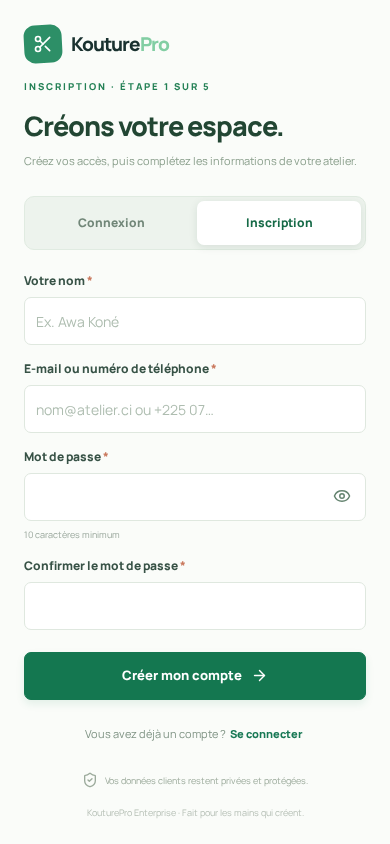
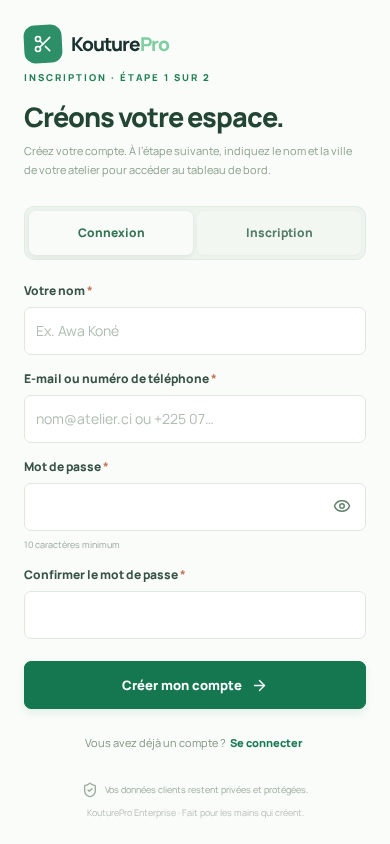
Simplify signup to one atelier step before dashboard

diff --git a/src/pages/Auth.jsx b/src/pages/Auth.jsx
@@ -1,5 +1,5 @@
 import React,{useEffect,useState} from 'react';
-import {Scissors,ArrowRight,Check,Sparkles,ShoppingBag,UsersRound,Building2,ShieldCheck,Camera,Eye,EyeOff} from 'lucide-react';
+import {Scissors,ArrowRight,Check,Sparkles,ShieldCheck,Eye,EyeOff} from 'lucide-react';
 import {useApp} from '../App.jsx';
 import {Button,Input} from '../components.jsx';
 
@@ -8,15 +8,20 @@ export default function Auth({onboarding,onAuthenticated}){
  const [mode,setMode]=useState('login');
  const [credentials,setCredentials]=useState({name:'',identifier:'',password:'',confirmation:''});
  const [showPassword,setShowPassword]=useState(false),[error,setError]=useState(''),[busy,setBusy]=useState(false);
- const [step,setStep]=useState(1),[logoFile,setLogoFile]=useState(null),[logoPreview,setLogoPreview]=useState('');
- const [form,setForm]=useState({name:'',owner_name:'',city:'Abidjan',address:'',whatsapp_phone:'',specialties:[],plan:'starter'});
- useEffect(()=>()=>{if(logoPreview)URL.revokeObjectURL(logoPreview);},[logoPreview]);
+ const [form,setForm]=useState({name:'',city:'Abidjan',whatsapp_phone:''});
  useEffect(()=>{
   if(!onboarding)return;
+  let active=true;
   request('/api/auth/me').then(r=>{
-   if(!r.user.org_id)setForm(f=>({...f,owner_name:r.user.name,whatsapp_phone:r.user.phone||''}));
-   else navigate('/app');
-  }).catch(()=>navigate('/auth'));
+   if(!active)return;
+   if(r.user.org_id){navigate('/app',true);return;}
+   setForm(f=>({...f,whatsapp_phone:f.whatsapp_phone||r.user.phone||''}));
+  }).catch(err=>{
+   if(!active)return;
+   if(err.status===401)navigate('/auth',true);
+   else setError('Impossible de vérifier votre session. Vérifiez la connexion et réessayez.');
+  });
+  return()=>{active=false;};
  },[onboarding,request,navigate]);
  const change=e=>{setCredentials({...credentials,[e.target.name]:e.target.value});setError('');};
  const switchMode=next=>{setMode(next);setCredentials(c=>({...c,password:'',confirmation:''}));setError('');setShowPassword(false);};
@@ -29,32 +34,39 @@ export default function Auth({onboarding,onAuthenticated}){
    if(localStorage.getItem('kp-logout-pending')==='yes'){
     await request('/api/auth/logout',{method:'POST'});localStorage.removeItem('kp-logout-pending');
    }
-   const result=await request(mode==='signup'?'/api/auth/signup':'/api/auth/login',{
-    method:'POST',body:{identifier:credentials.identifier,password:credentials.password,...(mode==='signup'?{name:credentials.name}:{})}
-   });
-   await onAuthenticated(result,mode);
+   let result,authMode=mode;
+   try{
+    result=await request(mode==='signup'?'/api/auth/signup':'/api/auth/login',{
+     method:'POST',body:{identifier:credentials.identifier,password:credentials.password,...(mode==='signup'?{name:credentials.name}:{})}
+    });
+   }catch(err){
+    if(mode!=='signup'||err.status!==409)throw err;
+    // Reprendre un compte déjà créé si la navigation vers l'étape suivante a échoué.
+    try{result=await request('/api/auth/login',{method:'POST',body:{identifier:credentials.identifier,password:credentials.password}});authMode='login';}
+    catch{throw new Error('Ce compte existe déjà. Ouvrez « Connexion » avec son mot de passe pour continuer.');}
+   }
+   if(result.needs_onboarding&&result.user?.phone)setForm(f=>({...f,whatsapp_phone:result.user.phone}));
+   await onAuthenticated(result,authMode);
   }catch(e){setError(e.network?'Connexion Internet nécessaire pour accéder à votre compte.':e.message);}
   finally{setBusy(false);}
  };
  const finish=async e=>{
-  e.preventDefault();
-  if(step<4){
-   if(step===1&&!form.name.trim())return notify('Donnez un nom à votre atelier.','error');
-   if(step===2&&!form.city.trim())return notify('Indiquez votre ville.','error');
-   setStep(step+1);return;
-  }
+  e.preventDefault();setError('');
+  if(!form.name.trim()||!form.city.trim()){setError('Indiquez le nom de votre atelier et sa ville.');return;}
   setBusy(true);
   try{
-   await request('/api/onboarding',{method:'POST',body:form});
-   if(logoFile){try{
-    const fd=new FormData();fd.append('image',logoFile);
-    const uploaded=await request('/api/uploads/image',{method:'POST',body:fd});
-    await request('/api/organization',{method:'PATCH',body:{logo_url:uploaded.url}});
-   }catch{notify('Atelier créé. Vous pourrez ajouter votre logo plus tard dans Ma vitrine.','error');}}
-   await refresh();navigate('/app');notify('Bienvenue dans votre atelier KouturePro !');
-  }catch(err){notify(err.message,'error');}finally{setBusy(false);}
+   try{await request('/api/onboarding',{method:'POST',body:form});}
+   catch(err){
+    if(err.status!==409)throw err;
+    // Si l'atelier a été créé mais la page n'a pas changé, reprendre sans doublon.
+    const me=await request('/api/auth/me');
+    if(!me.user.org_id)throw err;
+   }
+   try{await refresh();}catch{notify('Atelier créé. Chargement de vos données en cours...','error');}
+   navigate('/app',true);notify('Bienvenue dans votre atelier KouturePro !');
+  }catch(err){setError(err.network?'Connexion Internet nécessaire pour créer votre atelier.':err.message);}
+  finally{setBusy(false);}
  };
- const specs=['Tenues de cérémonie','Robes sur mesure','Boubous & ensembles','Mariages','Tenues traditionnelles','Retouches','Mode homme','Mode enfant'];
  return <div className="auth-layout">
   <div className="auth-visual"><img src="/assets/atelier-hero.jpg" alt="Atelier de couture en Afrique de l’Ouest"/><div className="auth-visual-shade"/>
    <div className="auth-brand"><span><Scissors size={22}/></span><strong>Kouture<span>Pro</span></strong><small>ENTERPRISE</small></div>
@@ -65,9 +77,9 @@ export default function Auth({onboarding,onAuthenticated}){
   <div className="auth-main"><div className="auth-mobile-brand"><span><Scissors size={20}/></span><strong>Kouture<span>Pro</span></strong></div>
    <div className="auth-form-shell">
     {!onboarding?<>
-     <div className="auth-overline">{mode==='login'?'VOTRE ESPACE ATELIER':'INSCRIPTION · ÉTAPE 1 SUR 5'}</div>
+     <div className="auth-overline">{mode==='login'?'VOTRE ESPACE ATELIER':'INSCRIPTION · ÉTAPE 1 SUR 2'}</div>
      <h2>{mode==='login'?'Bon retour à l’atelier.':'Créons votre espace.'}</h2>
-     <p className="auth-subtitle">{mode==='login'?'Entrez vos identifiants pour ouvrir directement votre tableau de bord.':'Créez vos accès, puis complétez les informations de votre atelier.'}</p>
+     <p className="auth-subtitle">{mode==='login'?'Entrez vos identifiants pour ouvrir directement votre tableau de bord.':'Créez votre compte. À l’étape suivante, indiquez le nom et la ville de votre atelier pour accéder au tableau de bord.'}</p>
      <div className="auth-tabs" role="tablist" aria-label="Accès à l’atelier">
       <button type="button" role="tab" aria-selected={mode==='login'} className={mode==='login'?'active':''} onClick={()=>switchMode('login')}>Connexion</button>
       <button type="button" role="tab" aria-selected={mode==='signup'} className={mode==='signup'?'active':''} onClick={()=>switchMode('signup')}>Inscription</button>
@@ -84,17 +96,16 @@ export default function Auth({onboarding,onAuthenticated}){
      <div className="auth-switch-line">{mode==='login'?<>Vous êtes nouveau ? <button type="button" onClick={()=>switchMode('signup')}>Créer un compte</button></>:<>Vous avez déjà un compte ? <button type="button" onClick={()=>switchMode('login')}>Se connecter</button></>}</div>
      <div className="auth-footnote"><ShieldCheck size={16}/> Vos données clients restent privées et protégées.</div>
     </>:<>
-     <div className="onboarding-top"><div className="auth-overline">INSCRIPTION · VOTRE ATELIER</div><span>Étape {step+1} sur 5</span></div>
-     <div className="onboarding-progress">{[1,2,3,4,5].map(i=><span key={i} className={i<=step+1?'active':''}/>)}</div>
-     <h2>{['Comment s’appelle votre atelier ?','Où vous trouve-t-on ?','Que créez-vous ?','Un plan pour commencer.'][step-1]}</h2>
-     <p className="auth-subtitle">{['Le début d’une belle histoire.','Aidez les clients près de chez vous à vous découvrir.','Choisissez ce qui vous ressemble le plus.','Vous pourrez changer de formule plus tard. Aucun paiement maintenant.'][step-1]}</p>
+     <div className="onboarding-top"><div className="auth-overline">INSCRIPTION · VOTRE ATELIER</div><span>Étape 2 sur 2</span></div>
+     <div className="onboarding-progress"><span className="active"/><span className="active"/></div>
+     <h2>Préparons votre atelier.</h2>
+     <p className="auth-subtitle">Deux informations suffisent pour commencer. Vous ajouterez votre logo, vos spécialités et WhatsApp plus tard dans la vitrine.</p>
      <form onSubmit={finish} className="auth-form onboarding-form">
-      {step===1&&<><Input label="Nom de votre atelier" value={form.name} onChange={e=>setForm({...form,name:e.target.value})} placeholder="Ex. Atelier Koné" required autoFocus/><Input label="Votre nom" value={form.owner_name} onChange={e=>setForm({...form,owner_name:e.target.value})} placeholder="Ex. Awa Koné"/>
-       <label className="onboarding-logo-picker"><span>{logoFile?<img src={logoPreview} alt="Aperçu du logo"/>:<Camera size={21}/>}</span><span><strong>{logoFile?'Logo choisi':'Ajouter un logo'}</strong><small>Facultatif · vous pourrez le changer plus tard</small></span><input type="file" accept="image/jpeg,image/png,image/webp" onChange={e=>{const file=e.target.files?.[0]||null;setLogoFile(file);setLogoPreview(file?URL.createObjectURL(file):'');}}/></label></>}
-      {step===2&&<><Input label="Ville" value={form.city} onChange={e=>setForm({...form,city:e.target.value})} required/><Input label="Adresse / quartier" value={form.address} onChange={e=>setForm({...form,address:e.target.value})} placeholder="Ex. Cocody Deux Plateaux"/><Input label="WhatsApp professionnel" type="tel" value={form.whatsapp_phone} onChange={e=>setForm({...form,whatsapp_phone:e.target.value})} required placeholder="+225 ..."/></>}
-      {step===3&&<div className="specialty-choices">{specs.map(s=><button key={s} type="button" className={form.specialties.includes(s)?'selected':''} onClick={()=>setForm({...form,specialties:form.specialties.includes(s)?form.specialties.filter(x=>x!==s):[...form.specialties,s]})}>{form.specialties.includes(s)&&<Check size={15}/>} {s}</button>)}</div>}
-      {step===4&&<div className="plan-choices">{[['starter','Starter','Pour démarrer seul',ShoppingBag],['pro','Pro','Pour un atelier avec équipe',UsersRound],['business','Business','Pour plusieurs boutiques',Building2]].map(([id,label,desc,Icon])=><button key={id} type="button" className={form.plan===id?'selected':''} onClick={()=>setForm({...form,plan:id})}><span><Icon size={21}/></span><span><strong>{label}</strong><small>{desc}</small></span><i>{form.plan===id&&<Check size={16}/>}</i></button>)}</div>}
-      <div className="onboarding-actions">{step>1&&<Button variant="soft" type="button" onClick={()=>setStep(step-1)}>Retour</Button>}<Button type="submit" loading={busy} className="auth-submit">{step===4?'Ouvrir mon tableau de bord':'Continuer'} <ArrowRight size={17}/></Button></div>
+      <Input label="Nom de votre atelier" value={form.name} onChange={e=>{setForm({...form,name:e.target.value});setError('');}} placeholder="Ex. Atelier Koné" required autoFocus/>
+      <Input label="Ville" value={form.city} onChange={e=>{setForm({...form,city:e.target.value});setError('');}} placeholder="Ex. Abidjan" required/>
+      <Input label="WhatsApp professionnel (facultatif)" type="tel" value={form.whatsapp_phone} onChange={e=>{setForm({...form,whatsapp_phone:e.target.value});setError('');}} placeholder="+225 ..." hint="Vous pourrez l’ajouter ou le modifier dans Vitrine (gestion)."/>
+      {error&&<div className="auth-error" role="alert">{error}</div>}
+      <div className="onboarding-actions"><Button type="submit" loading={busy} className="auth-submit">Ouvrir mon tableau de bord <ArrowRight size={17}/></Button></div>
      </form>
     </>}
    </div><div className="auth-main-bottom">KouturePro Enterprise · Fait pour les mains qui créent.</div>

diff --git a/src/pages/PublicSite.jsx b/src/pages/PublicSite.jsx
@@ -8,7 +8,7 @@ export default function PublicSite({slug}){const {data:appData,request,notify,na
  if(loading&&!site)return <Loading/>;
  if(!site)return <div className="public-not-found"><span><Scissors size={30}/></span><h1>Atelier introuvable</h1><p>Cette vitrine n’est pas disponible pour le moment.</p><button onClick={()=>navigate('/app')}>Retour à KouturePro <ArrowRight size={17}/></button></div>;
  const o=site.organization,hasPhotos=site.showcase.length>0,cover=o.cover_url||'/assets/atelier-hero.jpg';const goWhatsapp=waLink(o.whatsapp_phone,`Bonjour ${o.name}, je voudrais en savoir plus sur vos créations.`);
- return <div className="public-site"><div className="public-topline"><span><MapPin size={13}/>{o.city}, Côte d’Ivoire</span><span>Votre style, notre savoir-faire.</span><a href={goWhatsapp} target="_blank" rel="noreferrer"><MessageCircle size={13}/> Discutons sur WhatsApp</a></div>
+ return <div className="public-site"><div className="public-topline"><span><MapPin size={13}/>{o.city}, Côte d’Ivoire</span><span>Votre style, notre savoir-faire.</span>{o.whatsapp_phone&&<a href={goWhatsapp} target="_blank" rel="noreferrer"><MessageCircle size={13}/> Discutons sur WhatsApp</a>}</div>
  <header className="public-header"><a className="public-logo" href="#accueil"><span>{o.logo_url?<img src={o.logo_url} alt={"Logo "+o.name}/>:<Scissors size={21}/>}</span><span><strong>{o.name}</strong><small>MAISON DE COUTURE</small></span></a><nav className={menu?'open':''}><a href="#savoir-faire" onClick={()=>setMenu(false)}>Notre atelier</a><a href="#realisations" onClick={()=>setMenu(false)}>Réalisations</a><a href="#avis" onClick={()=>setMenu(false)}>Vos mots</a><a href="#contact" onClick={()=>setMenu(false)}>Contact</a></nav><div className="public-header-actions"><button onClick={()=>setAppointment(true)} className="public-header-cta">Prendre rendez-vous <ArrowUpRight size={16}/></button><button className="public-menu-button" aria-label={menu?'Fermer le menu':'Ouvrir le menu'} onClick={()=>setMenu(!menu)}>{menu?<X size={22}/>:<Menu size={22}/>}</button></div></header>
  <section className="public-hero" id="accueil"><img src={cover} alt={'L’atelier de couture '+o.name} fetchPriority="high"/><div className="public-hero-shade"/><div className="public-hero-content"><span className="public-eyebrow"><i/> COUTURE SUR MESURE · {o.city.toUpperCase()}</span><h1>L’élégance<br/>se dessine <em>sur mesure.</em></h1><p>{o.description||'Un atelier où chaque création raconte votre histoire.'}</p><div className="public-hero-actions"><button onClick={()=>setAppointment(true)} className="public-btn public-btn-light">Prendre rendez-vous <ArrowUpRight size={17}/></button><a href="#realisations" className="public-btn public-btn-outline">Voir nos créations <ArrowRight size={17}/></a></div></div><div className="public-hero-side">CRÉATIONS UNIQUES <span>✦</span> FAIT AVEC AMOUR</div><div className="hero-bottom-tag"><span>01 — L’ART DE CRÉER POUR VOUS</span><span>Défiler pour découvrir <span>↓</span></span></div></section>
  <div className="public-value-strip"><div><span>01</span><strong>À votre mesure</strong><small>Chaque détail compte</small></div><div><span>02</span><strong>Fait avec soin</strong><small>Par des mains passionnées</small></div><div><span>03</span><strong>Comme vous</strong><small>Une pièce, une histoire</small></div></div>
@@ -16,8 +16,8 @@ export default function PublicSite({slug}){const {data:appData,request,notify,na
  <section className="public-specialties"><div><span className="public-section-kicker">CE QUE NOUS AIMONS CRÉER</span><h2>La beauté de <em>chaque occasion.</em></h2></div><div className="public-specialty-tags">{o.specialties.length?o.specialties.map((s,i)=><span key={s}><small>0{i+1}</small> {s} <ArrowUpRight size={16}/></span>):['Créations sur mesure','Tenues uniques','Votre histoire'].map((s,i)=><span key={s}><small>0{i+1}</small> {s} <ArrowUpRight size={16}/></span>)}</div></section>
  <section className="public-gallery" id="realisations"><div className="public-section-heading"><div><span className="public-section-kicker">LE PORTFOLIO</span><h2>Nos créations, <em>vos histoires.</em></h2><p>Quelques pièces imaginées avec vous et confectionnées avec soin.</p></div><span className="gallery-asterisk">✳</span></div><div className="public-gallery-grid">{(hasPhotos?site.showcase:[{id:'sample1',title:'Le savoir-faire',image_url:'/assets/gallery-studio.jpg',description:'Chaque détail compte.'}]).map((item,i)=><div className={'public-gallery-card gallery-'+i%3} key={item.id}><div className="public-gallery-photo"><img src={item.image_url} loading="lazy" alt={item.title}/><span className="gallery-index">0{i+1}</span></div><div className="public-gallery-caption"><div><strong>{item.title}</strong><span>{item.description}</span></div><span><ArrowUpRight size={18}/></span></div></div>)}</div><div className="gallery-bottom-line"><span>Des pièces qui n’appartiennent qu’à vous.</span><button onClick={()=>setAppointment(true)}>Parlons de votre projet <ArrowRight size={16}/></button></div></section>
  <section className="public-testimonials" id="avis"><div className="testimonials-top"><span className="public-section-kicker">VOS MOTS, NOTRE PLUS BELLE RÉCOMPENSE</span><span>★★★★★</span></div><h2>Des créations aimées.<br/><em>Des histoires partagées.</em></h2><div className="testimonials-grid">{site.reviews.slice(0,3).map((r,i)=><div className="testimonial-card" key={r.id}><span className="quote-mark">“</span><p>{r.text}</p><div><span>{'★'.repeat(r.rating)}</span><strong>{r.name}</strong></div></div>)}{!site.reviews.length&&<p className="no-reviews">Les histoires de nos clients prendront bientôt place ici.</p>}</div></section>
- <section className="public-contact" id="contact"><div className="contact-copy"><span className="public-section-kicker">VOTRE PROCHAINE CRÉATION COMMENCE ICI</span><h2>Et si on imaginait<br/><em>la vôtre ensemble ?</em></h2><p>Une envie, une idée, une occasion spéciale ? Poussez la porte de notre atelier. Nous serons heureux de vous rencontrer.</p><div className="contact-actions"><button onClick={()=>setAppointment(true)} className="public-btn public-btn-dark">Prendre rendez-vous <ArrowUpRight size={17}/></button><a href={goWhatsapp} target="_blank" rel="noreferrer" className="public-btn public-btn-white"><MessageCircle size={18}/> Écrire sur WhatsApp</a></div></div><div className="contact-location"><span className="location-decoration"><MapPin size={32}/></span><div><span>VENEZ NOUS RENDRE VISITE</span><h3>{o.name}</h3><p>{[o.address,o.neighborhood,o.city].filter(Boolean).join(', ')}</p><a href={'https://www.google.com/maps/search/?api=1&query='+encodeURIComponent([o.address,o.city].filter(Boolean).join(' '))} target="_blank" rel="noreferrer">Itinéraire <ArrowUpRight size={15}/></a></div><div className="location-pattern">✳</div></div></section>
- <footer className="public-footer"><div className="public-footer-top"><div><a href="#accueil" className="public-logo footer-logo"><span>{o.logo_url?<img src={o.logo_url} alt={"Logo "+o.name}/>:<Scissors size={21}/>}</span><span><strong>{o.name}</strong><small>MAISON DE COUTURE</small></span></a><p>Le sur-mesure, pour les moments qui comptent.</p></div><div><strong>DÉCOUVRIR</strong><a href="#savoir-faire">Notre atelier</a><a href="#realisations">Réalisations</a><a href="#avis">Avis clients</a></div><div><strong>NOUS TROUVER</strong><span>{o.city}, Côte d’Ivoire</span><a href={goWhatsapp} target="_blank" rel="noreferrer">WhatsApp <ArrowUpRight size={13}/></a><button onClick={()=>setAppointment(true)}>Prendre rendez-vous</button></div></div><div className="public-footer-bottom"><span>© {new Date().getFullYear()} {o.name}. Créé avec passion.</span><span>Propulsé par <a href="/app">KouturePro</a> <Scissors size={13}/></span></div></footer>
+ <section className="public-contact" id="contact"><div className="contact-copy"><span className="public-section-kicker">VOTRE PROCHAINE CRÉATION COMMENCE ICI</span><h2>Et si on imaginait<br/><em>la vôtre ensemble ?</em></h2><p>Une envie, une idée, une occasion spéciale ? Poussez la porte de notre atelier. Nous serons heureux de vous rencontrer.</p><div className="contact-actions"><button onClick={()=>setAppointment(true)} className="public-btn public-btn-dark">Prendre rendez-vous <ArrowUpRight size={17}/></button>{o.whatsapp_phone&&<a href={goWhatsapp} target="_blank" rel="noreferrer" className="public-btn public-btn-white"><MessageCircle size={18}/> Écrire sur WhatsApp</a>}</div></div><div className="contact-location"><span className="location-decoration"><MapPin size={32}/></span><div><span>VENEZ NOUS RENDRE VISITE</span><h3>{o.name}</h3><p>{[o.address,o.neighborhood,o.city].filter(Boolean).join(', ')}</p><a href={'https://www.google.com/maps/search/?api=1&query='+encodeURIComponent([o.address,o.city].filter(Boolean).join(' '))} target="_blank" rel="noreferrer">Itinéraire <ArrowUpRight size={15}/></a></div><div className="location-pattern">✳</div></div></section>
+ <footer className="public-footer"><div className="public-footer-top"><div><a href="#accueil" className="public-logo footer-logo"><span>{o.logo_url?<img src={o.logo_url} alt={"Logo "+o.name}/>:<Scissors size={21}/>}</span><span><strong>{o.name}</strong><small>MAISON DE COUTURE</small></span></a><p>Le sur-mesure, pour les moments qui comptent.</p></div><div><strong>DÉCOUVRIR</strong><a href="#savoir-faire">Notre atelier</a><a href="#realisations">Réalisations</a><a href="#avis">Avis clients</a></div><div><strong>NOUS TROUVER</strong><span>{o.city}, Côte d’Ivoire</span>{o.whatsapp_phone&&<a href={goWhatsapp} target="_blank" rel="noreferrer">WhatsApp <ArrowUpRight size={13}/></a>}<button onClick={()=>setAppointment(true)}>Prendre rendez-vous</button></div></div><div className="public-footer-bottom"><span>© {new Date().getFullYear()} {o.name}. Créé avec passion.</span><span>Propulsé par <a href="/app">KouturePro</a> <Scissors size={13}/></span></div></footer>
  {appointment&&<AppointmentForm slug={slug} org={o} onClose={()=>setAppointment(false)}/>}
  </div>;
 }

diff --git a/src/pages/Settings.jsx b/src/pages/Settings.jsx
@@ -6,7 +6,7 @@ import {orgPublicPath} from '../utils.js';
 export default function Settings(){const {data,online,forcedOffline,simulateOffline,pending,syncing,syncQueue,mutate,notify,navigate,logout}=useApp(),o=data.organization,[saving,setSaving]=useState(false),[passwordOpen,setPasswordOpen]=useState(false);
  const toggle=async(key)=>{setSaving(true);try{const next=!o[key];await mutate('PATCH','/api/organization',{[key]:next},old=>({...old,organization:{...old.organization,[key]:next?1:0}}));notify(next?'Rappels activés.':'Rappels désactivés.');}catch(e){notify(e.message,'error')}finally{setSaving(false)}};
  return <><PageHeader eyebrow="VOTRE ESPACE" title="Paramètres" subtitle="Toutes les préférences de votre atelier, réunies ici."/>
- <div className="settings-layout"><div className="settings-primary"><Card className="settings-card"><PanelHead title="Informations de l’atelier" subtitle="La base de votre espace KouturePro" icon={Store}/><div className="setting-org"><span className="setting-org-logo">{o.name[0]}</span><div><strong>{o.name}</strong><small>{o.city} · {o.slug}</small></div><Badge tone="mint">Plan {o.plan==='business'?'Business':o.plan==='pro'?'Pro':'Starter'}</Badge></div><div className="settings-row"><span><Store size={19}/></span><div><strong>Ma vitrine publique</strong><small>Vos créations sont accessibles en ligne.</small></div><a href={orgPublicPath(data)} target="_blank" rel="noreferrer"><ExternalLink size={17}/></a></div><div className="settings-row"><span><Phone size={19}/></span><div><strong>WhatsApp professionnel</strong><small>{o.whatsapp_phone||'À renseigner dans votre vitrine'}</small></div><button onClick={()=>navigate('/app/showcase')}>Modifier <ChevronRight size={16}/></button></div><div className="settings-row"><span><Crown size={19}/></span><div><strong>Votre abonnement</strong><small>{o.plan==='business'?'Business':o.plan==='pro'?'Pro':'Starter'} · Devise : FCFA (XOF)</small></div><Badge tone={o.is_demo?'gray':'mint'}>{o.is_demo?'Démo':'Plan choisi'}</Badge></div></Card>
+ <div className="settings-layout"><div className="settings-primary"><Card className="settings-card"><PanelHead title="Informations de l’atelier" subtitle="La base de votre espace KouturePro" icon={Store}/><div className="setting-org"><span className="setting-org-logo">{o.name[0]}</span><div><strong>{o.name}</strong><small>{o.city} · {o.slug}</small></div><Badge tone="mint">Plan {o.plan==='business'?'Business':o.plan==='pro'?'Pro':'Starter'}</Badge></div><div className="settings-row"><span><Store size={19}/></span><div><strong>Ma vitrine publique</strong><small>Vos créations sont accessibles en ligne.</small></div><a href={orgPublicPath(data)} target="_blank" rel="noreferrer"><ExternalLink size={17}/></a></div><div className="settings-row"><span><Phone size={19}/></span><div><strong>WhatsApp professionnel</strong><small>{o.whatsapp_phone||'À renseigner dans votre vitrine'}</small></div><button onClick={()=>navigate('/app/showcase')}>Modifier <ChevronRight size={16}/></button></div><div className="settings-row"><span><Crown size={19}/></span><div><strong>Votre abonnement</strong><small>{o.plan==='business'?'Business':o.plan==='pro'?'Pro':'Starter'} · Devise : FCFA (XOF)</small></div><Badge tone={o.is_demo?'gray':'mint'}>{o.is_demo?'Démo':o.plan==='starter'?'Plan de départ':'Plan actif'}</Badge></div></Card>
  <Card className="settings-card"><PanelHead title="Rappels automatiques" subtitle="Prévenez vos clients avant les essayages et retraits" icon={Bell}/><div className="settings-row"><span className="setting-channel green"><MessageCircle size={19}/></span><div><strong>Rappels WhatsApp</strong><small>{data.integration.whatsapp?'Modèle approuvé connecté':'Nécessite WhatsApp Business API et un modèle approuvé'}</small></div><button className={'toggle '+(o.reminders_whatsapp?'on':'')} role="switch" aria-checked={!!o.reminders_whatsapp} aria-label="Rappels WhatsApp" disabled={data.user.role!=='owner'||!data.integration.whatsapp||saving} onClick={()=>toggle('reminders_whatsapp')}><i/></button></div><div className="settings-row"><span className="setting-channel blue"><Smartphone size={19}/></span><div><strong>Rappels SMS</strong><small>{data.integration.sms?'Twilio connecté':'Nécessite un compte Twilio actif'}</small></div><button className={'toggle '+(o.reminders_sms?'on':'')} role="switch" aria-checked={!!o.reminders_sms} aria-label="Rappels SMS" disabled={data.user.role!=='owner'||!data.integration.sms||saving} onClick={()=>toggle('reminders_sms')}><i/></button></div><div className="settings-help"><Info size={17}/> Les rappels sont envoyés la veille de la date d’essayage ou de livraison, uniquement avec votre accord et des accès configurés.</div></Card>
  <Card className="settings-card"><PanelHead title="Hors ligne & synchronisation" subtitle="Continuez à travailler même avec une connexion capricieuse" icon={CloudUpload}/><div className="sync-status-large"><span className={'sync-large-icon '+(!online?'offline':'')} >{online?<Wifi size={25}/>:<WifiOff size={25}/>}</span><div><strong>{!online?'Vous travaillez hors ligne':syncing?'Synchronisation en cours':pending?'Des modifications sont en attente':'Tout est synchronisé'}</strong><p>{!online?"Vos saisies sont sauvegardées sur cet appareil. Elles seront envoyées quand la connexion reviendra.":pending?`${pending} modification${pending>1?'s':''} encore à synchroniser.`:'Les dernières données de votre atelier sont disponibles sur cet appareil.'}</p></div><Badge tone={online?'green':'amber'}>{online?'Connecté':'Hors ligne'}</Badge></div><div className="settings-row"><span><WifiOff size={19}/></span><div><strong>Simuler le mode hors ligne</strong><small>Essayez l’application sans réseau, puis vérifiez la synchronisation.</small></div><button className={'toggle '+(forcedOffline?'on':'')} role="switch" aria-checked={forcedOffline} aria-label="Simuler hors ligne" onClick={()=>simulateOffline(!forcedOffline)}><i/></button></div><Button variant="soft" icon={RotateCcw} onClick={syncQueue} disabled={!online||syncing}>{syncing?'Synchronisation...':'Synchroniser maintenant'}{pending>0?` (${pending})`:''}</Button><div className="settings-help"><Info size={17}/> Vous pouvez saisir clients, mesures, commandes, paiements en espèces et dépenses hors ligne. Un paiement mobile ou l’envoi d’un message demande internet.</div></Card>
  <Card className="settings-card"><PanelHead title="Connexions externes" subtitle="Services à configurer sur le serveur de votre atelier" icon={Link2}/>{[['Paiement mobile','CinetPay · Wave, Orange Money, MTN Money',data.integration.mobile,CreditCard],['Messages WhatsApp','Meta WhatsApp Business API',data.integration.whatsapp,MessageCircle],['Messages SMS','Twilio SMS',data.integration.sms,Smartphone]].map(([title,subtitle,connected,Icon])=><div className="integration-row" key={title}><span><Icon size={19}/></span><div><strong>{title}</strong><small>{subtitle}</small></div><Badge tone={connected?'green':'gray'} dot>{connected?'Connecté':'À configurer'}</Badge></div>)}<div className="settings-help"><ShieldCheck size={17}/> Les identifiants restent côté serveur. Aucune transaction n’est simulée comme payée.</div></Card><Card className="settings-card"><PanelHead title="Sécurité du compte" subtitle="Vos identifiants restent privés" icon={LockKeyhole}/><div className="settings-row"><span><LockKeyhole size={19}/></span><div><strong>Mot de passe</strong><small>Modifiez-le régulièrement et ne le communiquez à personne.</small></div><button onClick={()=>setPasswordOpen(true)}>Modifier <ChevronRight size={16}/></button></div></Card></div>

diff --git a/src/App.jsx b/src/App.jsx
@@ -111,7 +111,17 @@ export default function App(){
  const simulateOffline=(value)=>{localStorage.setItem('kp-offline-sim',value?'yes':'no');setForcedOffline(value);notify(value?'Mode hors ligne de test activé.':'Connexion rétablie.');};
  const values=useMemo(()=>({data,setData,ready,online:activeOnline,forcedOffline,simulateOffline,branch,setBranch,route,path,navigate,refresh,mutate,notify,pending,syncing,syncQueue,searchOpen,setSearchOpen,alertsOpen,setAlertsOpen,logout,quick,setQuick,mobileMore,setMobileMore,request:apiRequest}),[data,ready,activeOnline,forcedOffline,branch,route,navigate,refresh,mutate,notify,pending,syncing,syncQueue,searchOpen,alertsOpen,quick,mobileMore]);
  if(path!=='/'&&!inApp&&path!=='/auth'&&path!=='/onboarding')return <Context.Provider value={values}><PublicSite slug={path.split('/')[1]}/><Toasts toasts={toasts} remove={id=>setToasts(ts=>ts.filter(t=>t.id!==id))}/></Context.Provider>;
- if(path==='/auth'||path==='/onboarding')return <Context.Provider value={values}><Auth onboarding={path==='/onboarding'} onAuthenticated={async(result,mode)=>{sessionStorage.removeItem('kp-logged-out');localStorage.removeItem('kp-logout-pending');const cached=await getSnapshot();if(cached?.user?.id&&cached.user.id!==result.user.id){await clearSnapshot();await clearQueue();setPending(0);setData(null);}if(result.needs_onboarding){navigate('/onboarding');if(mode==='signup')notify('Compte créé ! Complétez maintenant les informations de votre atelier.');}else{await refresh();navigate('/app');}}}/><Toasts toasts={toasts} remove={id=>setToasts(ts=>ts.filter(t=>t.id!==id))}/></Context.Provider>;
+ if(path==='/auth'||path==='/onboarding')return <Context.Provider value={values}><Auth onboarding={path==='/onboarding'} onAuthenticated={async(result,mode)=>{
+  try{sessionStorage.removeItem('kp-logged-out');localStorage.removeItem('kp-logout-pending');}catch{}
+  const cached=await getSnapshot();
+  if(cached?.user?.id&&cached.user.id!==result.user.id){
+   await Promise.allSettled([clearSnapshot(),clearQueue()]);setPending(0);setData(null);
+  }
+  if(result.needs_onboarding){
+   navigate('/onboarding',true);
+   if(mode==='signup')notify('Compte créé ! Indiquez le nom et la ville de votre atelier pour ouvrir votre tableau de bord.');
+  }else{await refresh();navigate('/app',true);}
+ }}/><Toasts toasts={toasts} remove={id=>setToasts(ts=>ts.filter(t=>t.id!==id))}/></Context.Provider>;
  if(!ready||!data)return <Loading/>;
  const content=path==='/app'?<Dashboard/>:path==='/app/clients'?<Clients/>:path==='/app/orders'?<Orders/>:path.startsWith('/app/orders/')?<OrderDetail id={decodeURIComponent(path.split('/')[3])}/>:path==='/app/production'?<Production/>:path==='/app/payments'?<Payments/>:path==='/app/stock'?<Stock/>:path==='/app/team'?<Team/>:path==='/app/showcase'?<Showcase/>:path==='/app/stats'?<Stats/>:path==='/app/settings'?<Settings/>:<Dashboard/>;
  return <Context.Provider value={values}><div className="app-shell"><Sidebar/><div className="main-area"><Topbar/><main className="app-content">{content}</main></div><BottomNav/></div>

diff --git a/tests/api.test.js b/tests/api.test.js
@@ -110,6 +110,10 @@ test('flux métier, isolation par atelier et balisage public',async()=>{
   expect(await req('/api/auth/login',{method:'POST',body:{identifier:email,password:oldPassword}}),401);
   const mailLogin=await req('/api/auth/login',{method:'POST',body:{identifier:'client@atelier.ci',password:newPassword}});expect(mailLogin,200);
   assert.equal(mailLogin.json.needs_onboarding,true);
-  assert.equal(expect(await req('/api/auth/me',{cookie:mailLogin.headers.get('set-cookie').split(';')[0]}),200).user.password_hash,undefined);
+  const emailCookie=mailLogin.headers.get('set-cookie').split(';')[0];
+  assert.equal(expect(await req('/api/auth/me',{cookie:emailCookie}),200).user.password_hash,undefined);
+  const mailOrg=expect(await req('/api/onboarding',{method:'POST',cookie:emailCookie,body:{name:'Atelier Mail',city:'Abidjan',whatsapp_phone:''}}),200).organization;
+  assert.equal(mailOrg.whatsapp_phone,'');
+  assert.equal(expect(await req('/api/bootstrap',{cookie:emailCookie}),200).organization.name,'Atelier Mail');
  }catch(error){console.error('SERVER LOG:',serverLog.slice(-3500));throw error;}finally{server.kill('SIGTERM');fs.rmSync(dir,{recursive:true,force:true});}
 });

diff --git a/server/index.js b/server/index.js
@@ -133,7 +133,9 @@ app.post('/api/auth/logout',api((req,res)=>{res.clearCookie('kp_session',{path:'
 app.get('/api/auth/me',api((req,res)=>{const user=getUser(req);if(!user)throw err(401,'Non connecté.');res.json({user:userOut(user),organization:user.org_id?orgOut(orgRow(user.org_id)):null});}));
 app.post('/api/onboarding',auth,api((req,res)=>{
  if(req.user.org_id)throw err(409,'Votre atelier est déjà créé.');
- const name=text(req.body.name,100),city=text(req.body.city,80),phone=normalizePhone(req.body.whatsapp_phone||req.user.phone);
+ const name=text(req.body.name,100),city=text(req.body.city,80);
+ const contact=req.body.whatsapp_phone===undefined?req.user.phone||'':req.body.whatsapp_phone;
+ const phone=contact?normalizePhone(contact):'';
  requireField(name,"Le nom de l'atelier");requireField(city,'La ville');
  let slug=text(req.body.slug||name,90).normalize('NFD').replace(/[\u0300-\u036f]/g,'').toLowerCase().replace(/[^a-z0-9]+/g,'-').replace(/^-|-$/g,'');
  if(slug.length<3)slug='atelier-'+crypto.randomInt(1000,9999);

diff --git a/public/sw.js b/public/sw.js
@@ -1,4 +1,4 @@
-const CACHE='kouturepro-shell-v6';
+const CACHE='kouturepro-shell-v7';
 const ESSENTIAL=['/','/app','/favicon.svg','/icon-192.png','/icon-512.png','/manifest.webmanifest','/assets/atelier-hero.jpg','/assets/gallery-style.jpg','/assets/gallery-wax.jpg','/assets/gallery-studio.jpg'];
 self.addEventListener('install',event=>{event.waitUntil(caches.open(CACHE).then(cache=>Promise.allSettled(ESSENTIAL.map(url=>cache.add(url)))));self.skipWaiting();});
 self.addEventListener('activate',event=>{event.waitUntil(caches.keys().then(keys=>Promise.all(keys.filter(k=>k!==CACHE).map(k=>caches.delete(k)))));self.clients.claim();});

diff --git a/README.md b/README.md
@@ -15,7 +15,7 @@ npm install
 npm run dev
 ```
 
-Ouvrir **http://localhost:3000/auth** : choisissez **Connexion** ou **Inscription** avec votre e-mail **ou** votre téléphone et un mot de passe. Une connexion validée ouvre directement **votre propre tableau de bord** ; « Créer un compte » continue avec les quatre étapes d’inscription de l’atelier, puis ouvre son tableau de bord. L'application ne connecte plus automatiquement les visiteurs. Pour tester l’atelier « Atelier Koné » en développement, connectez-vous avec **`demo@kouturepro.test`** et **`Atelier2026!`** (ou la valeur de `DEMO_PASSWORD` si vous l’avez personnalisée). Le compte de démo ne peut pas se connecter en production. La vitrine publique reste accessible sur **http://localhost:3000/atelier-kone**.
+Ouvrir **http://localhost:3000/auth** : choisissez **Connexion** ou **Inscription** avec votre e-mail **ou** votre téléphone et un mot de passe. Une connexion validée ouvre directement **votre propre tableau de bord** ; « Créer un compte » mène à **une seule étape rapide** (nom et ville de l’atelier), puis ouvre le tableau de bord. L'application ne connecte plus automatiquement les visiteurs. Pour tester l’atelier « Atelier Koné » en développement, connectez-vous avec **`demo@kouturepro.test`** et **`Atelier2026!`** (ou la valeur de `DEMO_PASSWORD` si vous l’avez personnalisée). Le compte de démo ne peut pas se connecter en production. La vitrine publique reste accessible sur **http://localhost:3000/atelier-kone**.
 
 ### Générer une base de données fictive
 
@@ -47,7 +47,7 @@ Voir **[docs/deploiement-vercel.md](docs/deploiement-vercel.md)** pour la config
 
 La correspondance entre les dix rubriques de l'application, leurs routes et les tables Neon est détaillée dans [docs/modules-base-donnees.md](docs/modules-base-donnees.md).
 
-- Connexion ou inscription par e-mail ou téléphone et mot de passe (hachage bcrypt), puis onboarding en 4 étapes (nom et logo facultatif, localisation, spécialités, plan). Ancien écran de code SMS et entrée automatique dans la démo supprimés.
+- Connexion ou inscription par e-mail ou téléphone et mot de passe (hachage bcrypt). Après l’inscription, **une seule étape** demande le nom et la ville de l’atelier, puis ouvre le tableau de bord. WhatsApp est facultatif ; logo et spécialités se complètent ensuite dans Vitrine (gestion), avec le plan Starter au départ. Ancien écran de code SMS et entrée automatique dans la démo supprimés.
 - Clients, coordonnées chiffrées, mesures chiffrées modifiables, notes vocales chiffrées, rapprochement simple de mesures.
 - Commandes, tissu tiré du stock, patron réutilisable, cinq étapes de production, alertes, affectations et commissions par commande.
 - Espèces/virement, acomptes, solde, caisse, dépenses, reçus/factures PDF (téléchargement, lien privé valable 7 jours partageable sur WhatsApp) et plans d'épargne individuels.
